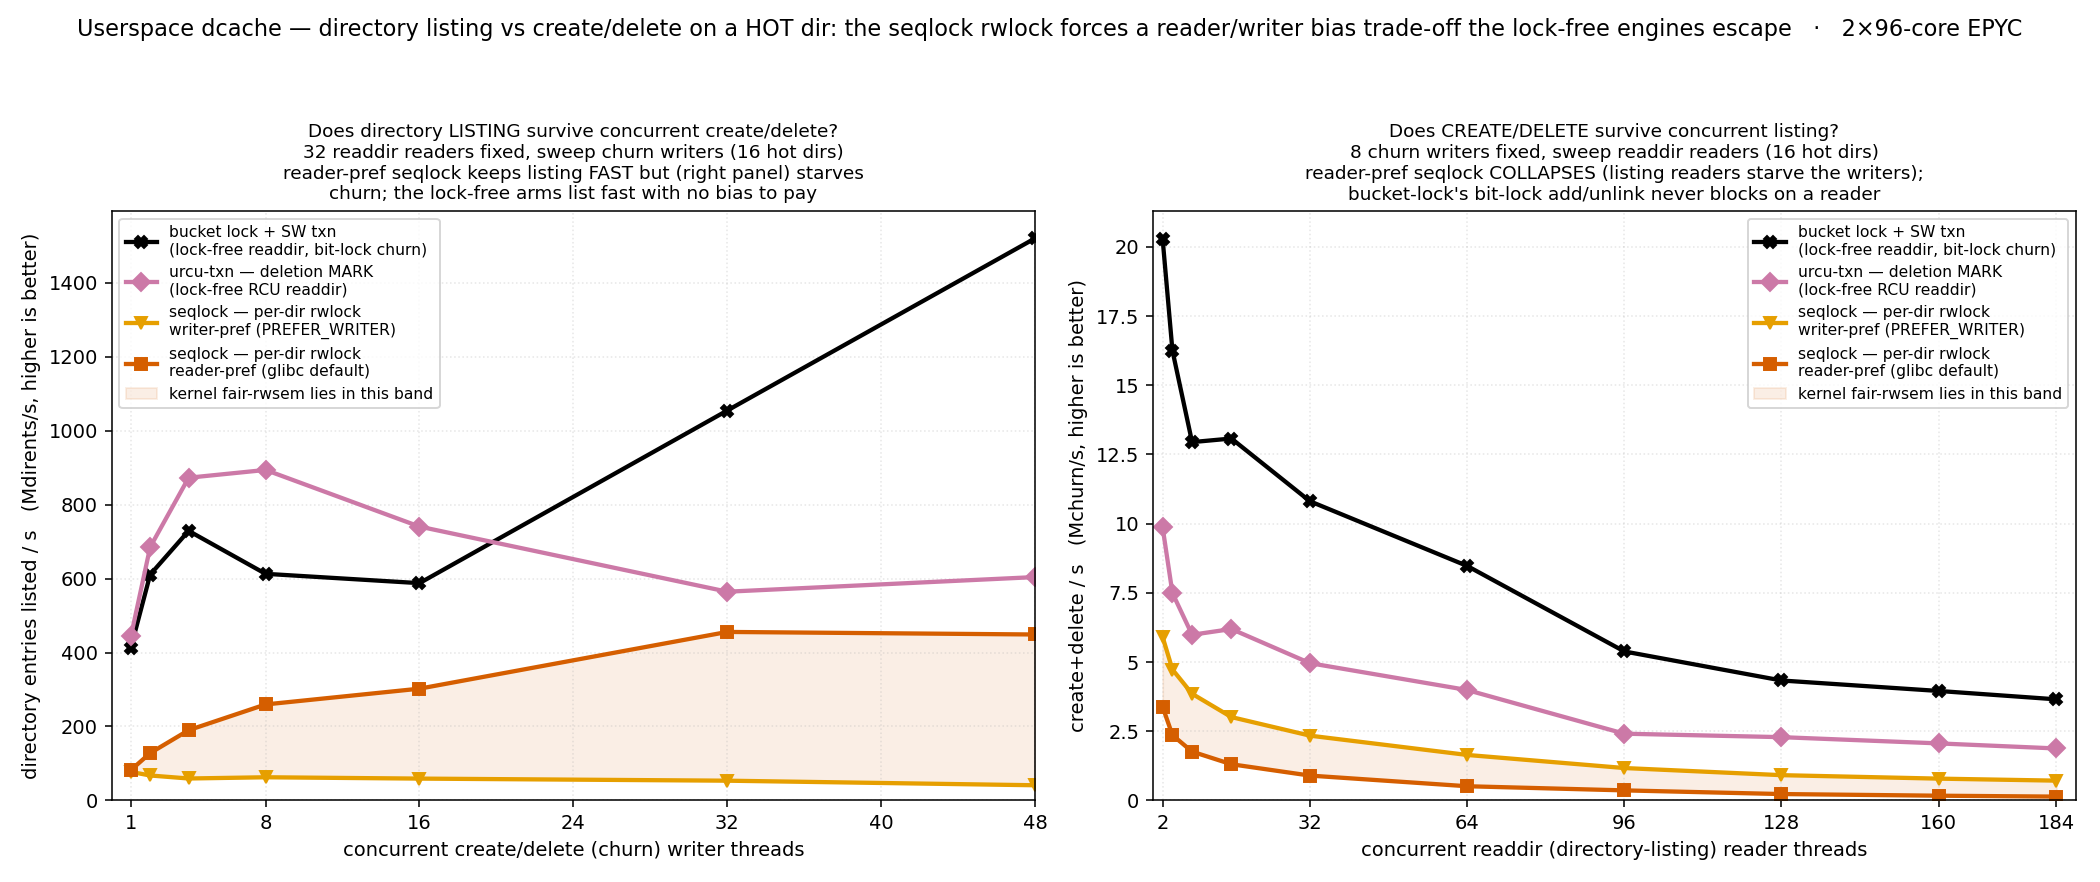
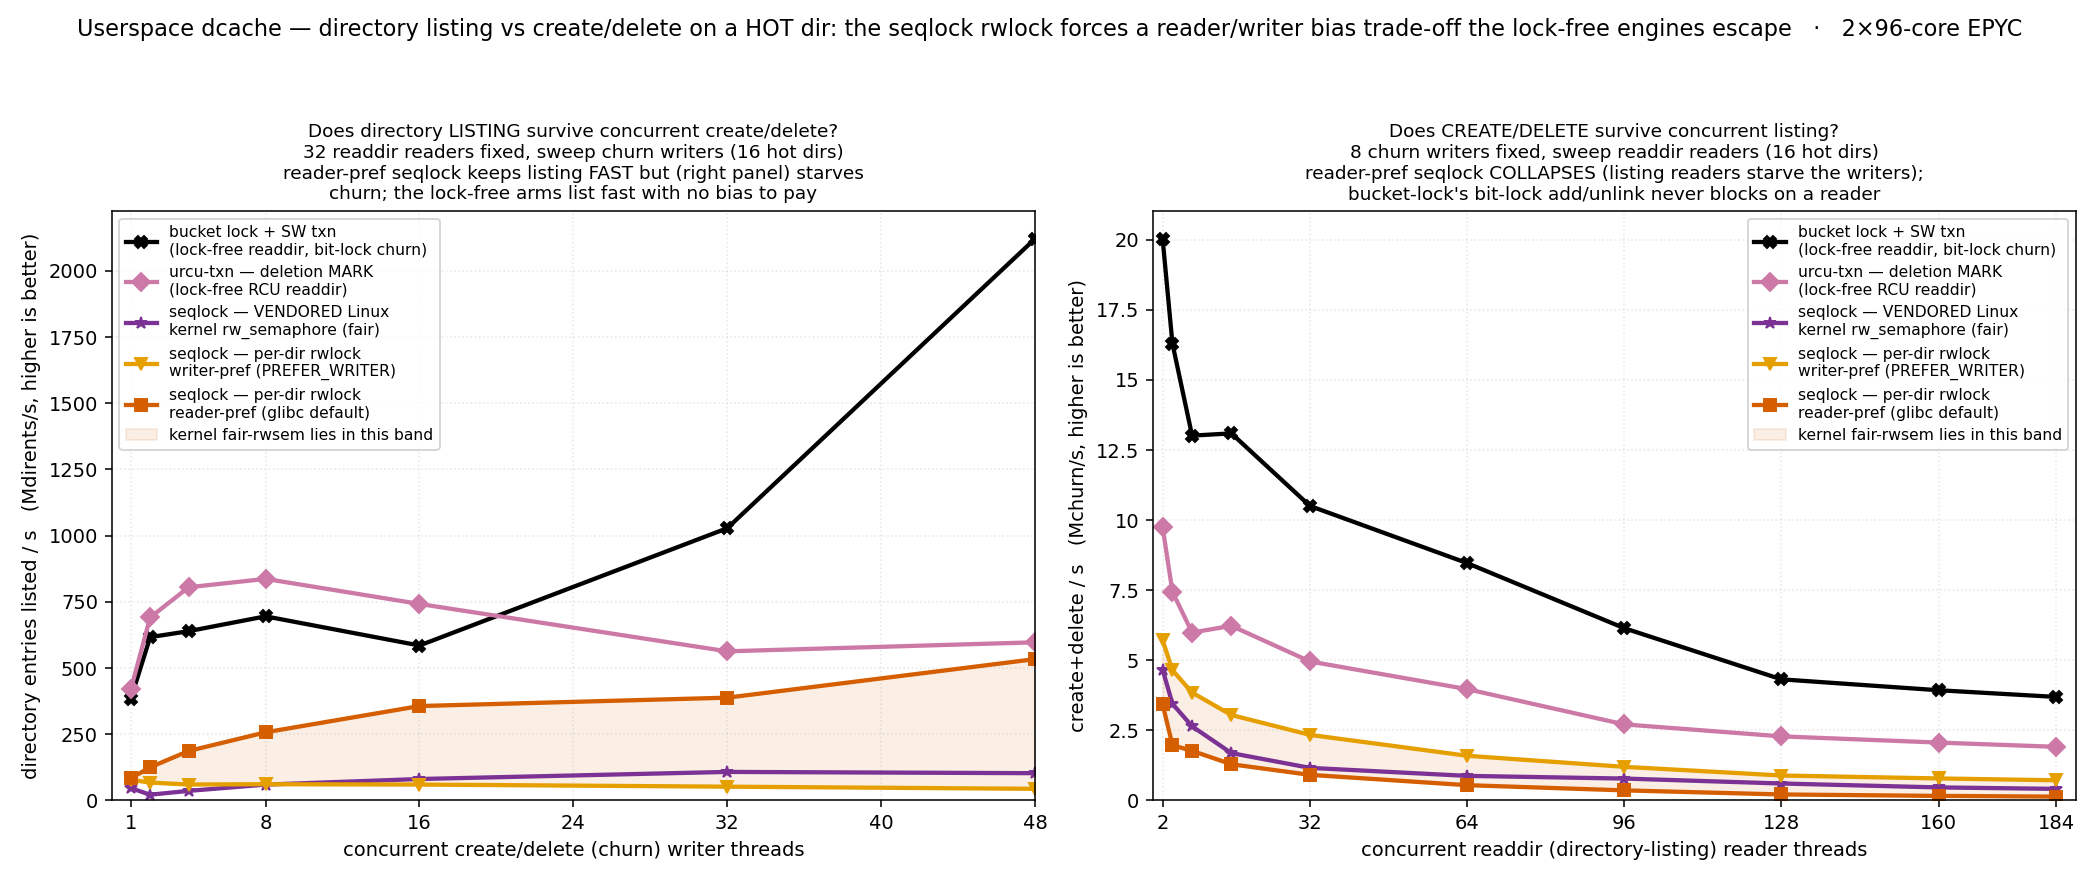
dcache readdir-vs-churn: add the vendored kernel rw_semaphore arm
Re-sweep the directory-listing-vs-create/delete figure with a fifth arm: the
seqlock baseline built -DDC_DIR_LOCK_KRWSEM, i.e. the VENDORED Linux kernel
rw_semaphore (the faithful fair lock).  It confirms the prediction from reading
the kernel source: on the churn-survival axis (Q2, right panel) the fair lock
threads BETWEEN the reader-pref and writer-pref glibc biases -- at 184 listing
readers, churn 0.41 vs reader-pref 0.13 and writer-pref 0.72, the fair middle,
and likewise at the light end (4.66 between 3.43 and 5.72).  So Linux's rwsem
protects the writers far better than the glibc reader-pref default (which was the
seqlock baseline's silent default) but does not favour them as hard as strict
writer-pref -- exactly its fair, writer-protective-with-reader-batching design.

Its absolute readdir throughput (Q1, left panel) sits low with the two glibc
arms because the userspace port carries real overhead (naive test-and-set
wait_lock + a futex park per block, vs glibc's tuned rwlock), so the same-glibc-
lock bracket stays the clean quantitative bound; krwsem is the qualitative
faithful confirmation.  All arms conservation-clean to 184 readers.

diff --git a/scripts/plot_dcache_readdir_churn.py b/scripts/plot_dcache_readdir_churn.py
@@ -37,15 +37,21 @@ OUT = os.environ.get("OUT",
 rows = [r for r in csv.DictReader(open(CSV)) if r["conserved"] == "OK"]
 
 COLOR = {"seqlock-rp": "#D55E00", "seqlock-wp": "#E69F00",
-         "txn-mark": "#CC79A7", "bucketlock": "#000000"}
-MARK = {"seqlock-rp": "s", "seqlock-wp": "v", "txn-mark": "D", "bucketlock": "X"}
+         "seqlock-krwsem": "#7B3294", "txn-mark": "#CC79A7", "bucketlock": "#000000"}
+MARK = {"seqlock-rp": "s", "seqlock-wp": "v", "seqlock-krwsem": "*",
+        "txn-mark": "D", "bucketlock": "X"}
 LABEL = {
     "seqlock-rp": "seqlock — per-dir rwlock\nreader-pref (glibc default)",
     "seqlock-wp": "seqlock — per-dir rwlock\nwriter-pref (PREFER_WRITER)",
+    "seqlock-krwsem": "seqlock — VENDORED Linux\nkernel rw_semaphore (fair)",
     "txn-mark": "urcu-txn — deletion MARK\n(lock-free RCU readdir)",
     "bucketlock": "bucket lock + SW txn\n(lock-free readdir, bit-lock churn)",
 }
-ORDER = ("bucketlock", "txn-mark", "seqlock-wp", "seqlock-rp")
+# krwsem drawn thicker: it is the faithful fair point that should sit INSIDE the
+# reader-pref<->writer-pref band.  (Its absolute height also carries the userspace
+# port's overhead -- naive wait_lock + futex -- so the same-glibc-lock bracket
+# stays the clean quantitative bound; krwsem confirms the fair POLICY is between.)
+ORDER = ("bucketlock", "txn-mark", "seqlock-krwsem", "seqlock-wp", "seqlock-rp")
 
 
 def series(panel, eng, xcol, ycol):
